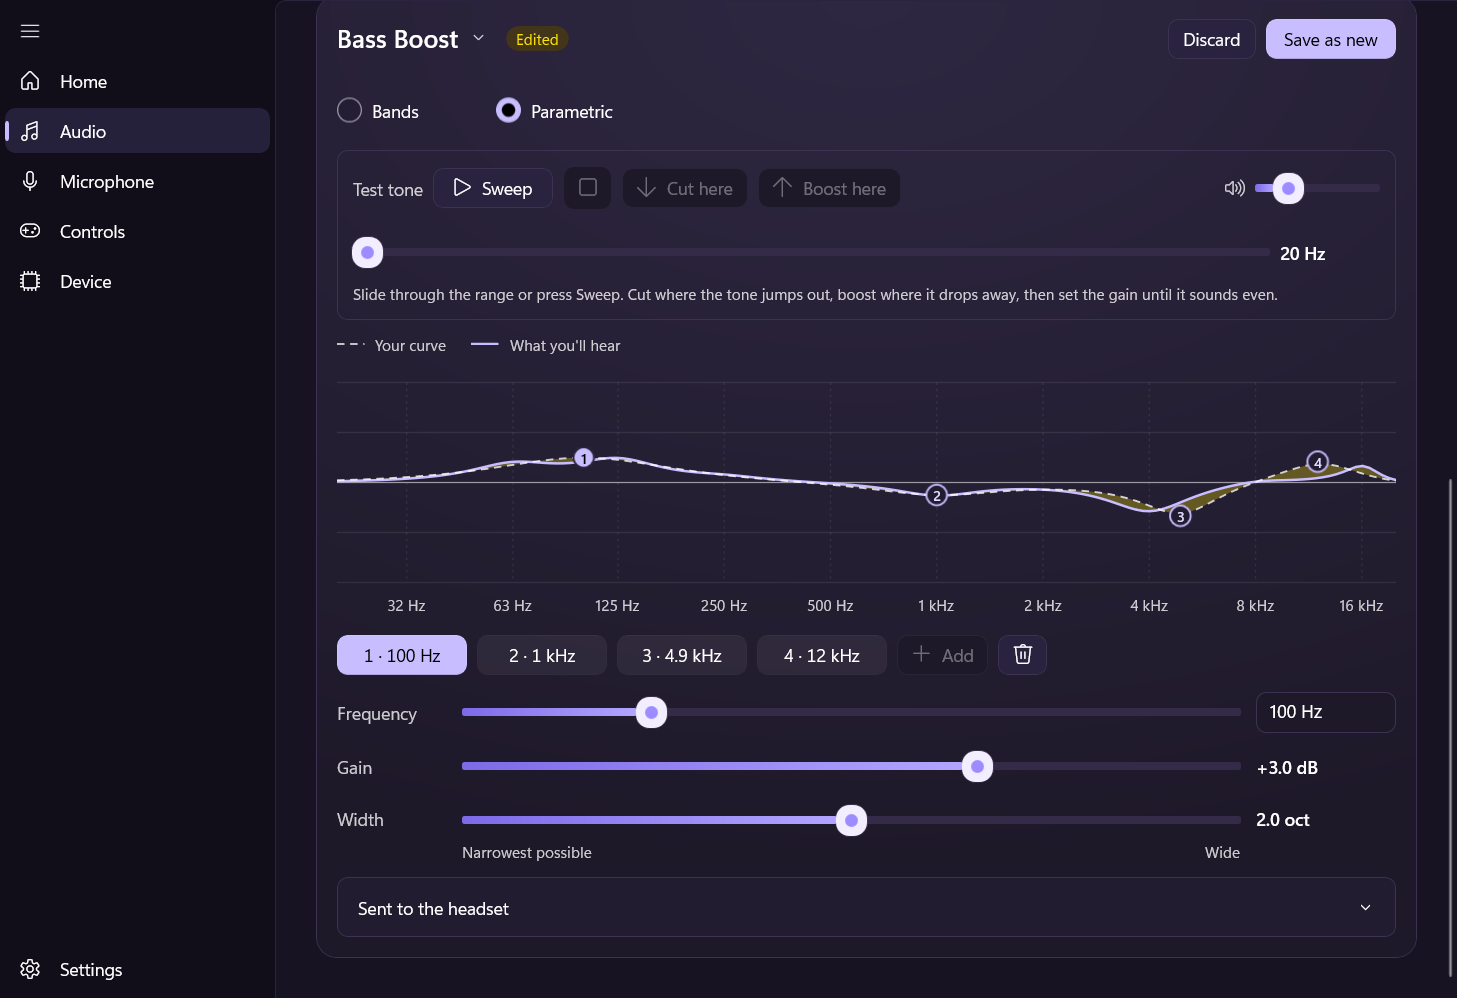
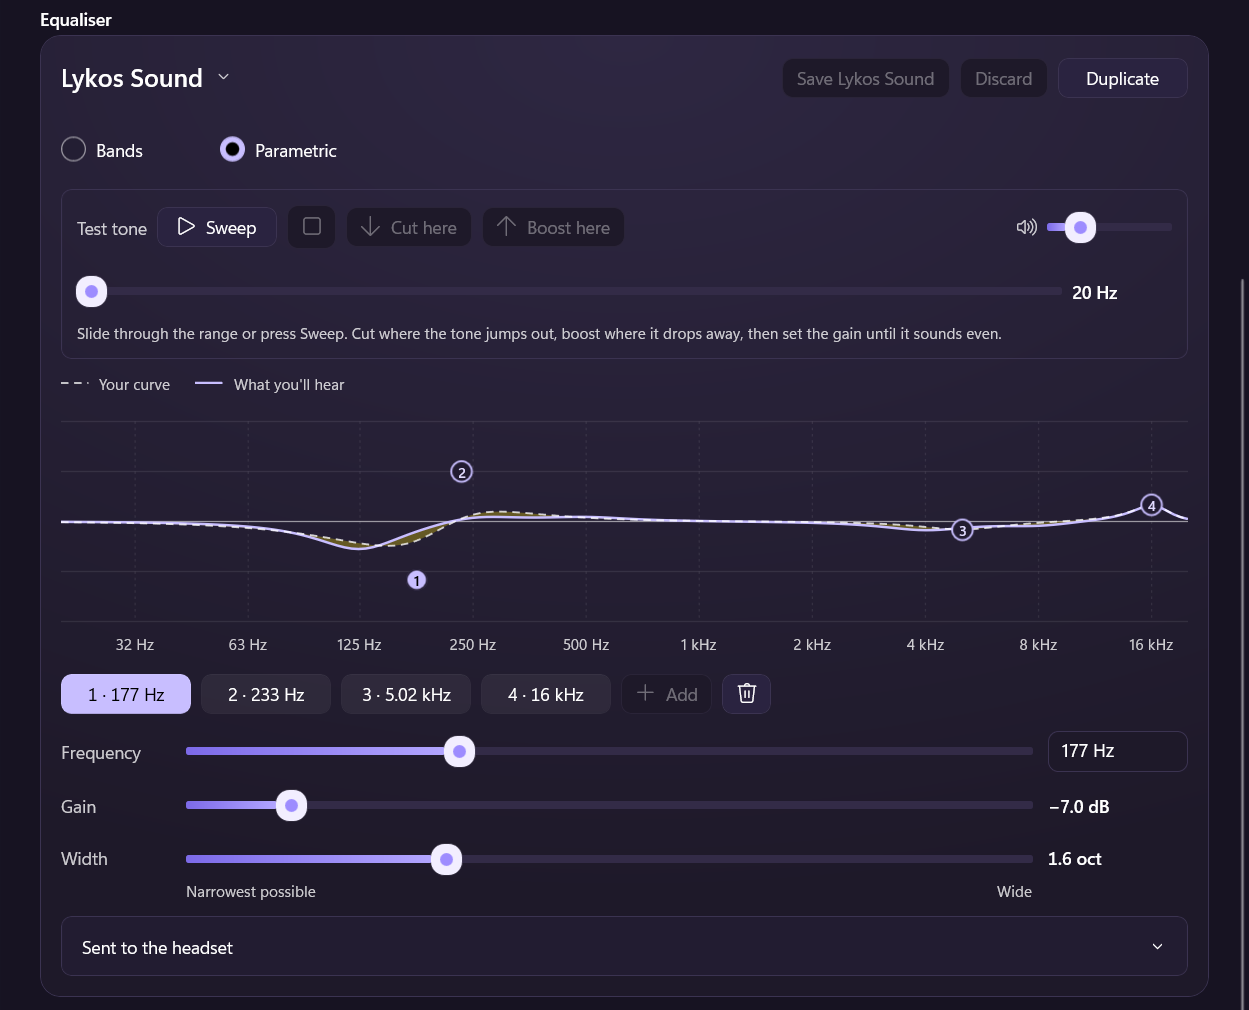
Show the real app in the README, with profiles and the dock
The screenshots came from the pretend headset, with pretend names on
screen. They are now from the app on a real headset, and two more show
profiles assigned to games and the Charging Dock's spare battery and
audio format, each with a short section of its own.

diff --git a/README.md b/README.md
@@ -30,7 +30,7 @@ Move it with the headset's chat wheel, the dial on Home, or the keyboard
 from inside a game: Ctrl + Alt + Page Down, Page Up and Home, all
 rebindable.
 
-![Home, with the game and chat dial turned toward chat.](docs/screenshots/mix.png)
+![Home, with the game and chat dial mixing Discord and Teams against the game, and noise control in transparency.](docs/screenshots/mix.png)
 
 ### Transparency
 
@@ -52,15 +52,29 @@ is running.
 
 ![The parametric equaliser, with four adjustments and the test tone.](docs/screenshots/equaliser.png)
 
+### Profiles for each game
+
+Save your whole setup under a name, from noise control to both equalisers.
+Give a profile one or more games, and it comes on when one of them starts,
+then goes back to your default when it closes.
+
+![Settings, with a default profile and a gaming profile assigned to two games.](docs/screenshots/profiles.png)
+
+### The Charging Dock
+
+See the spare battery's charge while the headset is docked, set the
+brightness of both lights, and choose the audio format. Neap can also put
+the dock back into high-resolution audio after an app has used the
+microphone.
+
+![The Device page, with the Charging Dock in use, the spare battery at 100% and the audio format at 24-bit, 96 kHz.](docs/screenshots/dock.png)
+
 ### Everything else
 
-- **Profiles** save your whole setup under a name, and can switch on by
-  themselves when a game starts.
 - **Clear status.** Connected, no sound, switched off or out of range, each
   with what still works and the one thing to do.
 - **Catches the wrong device.** When Windows sends sound or the microphone
   somewhere the headset isn't listening, Neap names the right one.
-- **The spare battery's charge** while the headset is on the Charging Dock.
 - **Settings Swarm II's desktop app doesn't have:** wake on motion and voice
   prompt volume.
 - **Every other setting** the headset has: microphone, noise gate,
